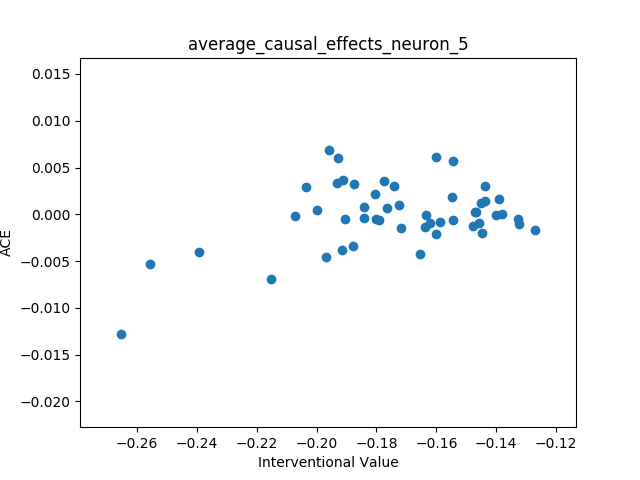
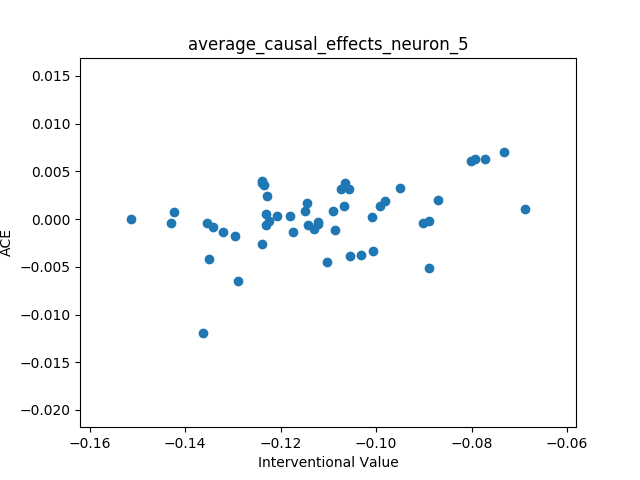
ACE in training

diff --git a/Project/NeuralNet.py b/Project/NeuralNet.py
@@ -3,11 +3,12 @@ import torch.nn as nn
 import numpy  as np
 import matplotlib.pyplot as plt
 import causal
+import copy
 
 class neural_network(object):
     """docstring for neural_network."""
 
-    def __init__(self, learning_rate,net,criterion,opt,epochs,inputs_training,target_training,inputs_test,target_test):
+    def __init__(self, learning_rate,net,criterion,opt,epochs,inputs_training,target_training,inputs_test,target_test,causality_on):
         super(neural_network, self).__init__()
         self.learning_rate = learning_rate
         self.net=net
@@ -18,6 +19,7 @@ class neural_network(object):
         self.target_training=target_training
         self.inputs_test=inputs_test
         self.target_test=target_test
+        self.causality_on=causality_on
 
     def model(self,inputs):
         torch.set_default_dtype(torch.float64)
@@ -61,7 +63,7 @@ class neural_network(object):
         test_loss_training=[]
         for i in range(self.epochs):
 
-            placeholderNet=self.net
+            placeholderNet=copy.deepcopy(self.net)
             placeholderNet.eval()
 
             self.net.train()
@@ -81,6 +83,8 @@ class neural_network(object):
             if i > 0 and i % 10 == 0:
                 print('Epoch %d, loss = %g' % (i, loss))
 
+
+
             #print("weight experiment")
 
             #print(len(self.net[0].weight.grad))
@@ -97,26 +101,24 @@ class neural_network(object):
             #print(len(self.net[2].weight[0]))
             #print(self.net[0].weight.detach().numpy().shape)
 
-            self.selection_weights(placeholderNet)
+            if self.causality_on==1:
+                self.update_weights_bias(placeholderNet)
 
 
 
         return loss_training,test_loss_training
 
 
-    def selection_weights(self,placeholderNet):
+    def update_weights_bias(self,placeholderNet):
         causal_binary = self.ACE_execution()
         #self.net[2].weight
         for indx,binary in enumerate(causal_binary):
             #i=indx*2
             #print(i)
             #print(indx)
-
-            weight_update=np.multiply(self.net[indx*2].weight.detach().numpy(), np.array(binary)[:, np.newaxis])
-            inverted_binary=1-np.array(binary)
-            weighted_keep=np.multiply(placeholderNet[indx*2].weight.detach().numpy(), inverted_binary[:, np.newaxis])
-
-            new_weights=weight_update+weighted_keep
+            new_bias=self.selection_bias(placeholderNet,indx,binary)
+            new_weights=self.selection_weights(placeholderNet,indx,binary)
+            self.overwrite_weights_bias(placeholderNet,indx,new_weights,new_bias)
 
             #print("shape weights new")
             #print(self.net[indx*2].weight.detach().numpy().shape)
@@ -128,8 +130,65 @@ class neural_network(object):
             #print(weighted_keep.shape)
             #print("shape weights final")
             #print(new_weights.shape)
-    #def overwrite_weights(self):
-    #self.net[0].weight=torch.nn.Parameter(torch.from_numpy(np.array(0)))
+
+    def selection_bias(self,placeholderNet,indx,binary):
+
+        bias_update=np.multiply(self.net[indx*2].bias.detach().numpy(), np.array(binary))
+        inverted_binary=1-np.array(binary)
+        bias_keep=np.multiply(placeholderNet[indx*2].bias.detach().numpy(), inverted_binary)
+
+        new_bias=bias_update+bias_keep
+
+        #print("shape bias net")
+        #print(self.net[indx*2].bias.detach().numpy().shape)
+        #print("bias_update")
+        #print(bias_update.shape)
+        #print("new_bias")
+        #print(new_bias.shape)
+        #print("bias net")
+        #print(self.net[indx*2].bias.detach().numpy())
+        #print("binary")
+        #print(binary)
+        #print("bias_update")
+        #print(bias_update)
+
+        #print("bias placeholderNet")
+        #print(placeholderNet[indx*2].bias.detach().numpy())
+        #print("new_bias")
+        #print(new_bias)
+
+        return new_bias
+
+
+    def selection_weights(self,placeholderNet,indx,binary):
+
+        weight_update=np.multiply(self.net[indx*2].weight.detach().numpy(), np.array(binary)[:, np.newaxis])
+        inverted_binary=1-np.array(binary)
+        weighted_keep=np.multiply(placeholderNet[indx*2].weight.detach().numpy(), inverted_binary[:, np.newaxis])
+
+        new_weights=weight_update+weighted_keep
+
+        #print("shape weights net")
+        #print(self.net[indx*2].weight.detach().numpy().shape)
+        #print("weight_update")
+        #print(weight_update.shape)
+        #print("new_weights")
+        #print(new_weights.shape)
+        #print("weight net")
+        #print(self.net[indx*2].weight.detach().numpy())
+        #print("binary")
+        #print(binary)
+        #print("weight_update")
+        #print(weight_update)
+        #print("new_weights")
+        #print(new_weights)
+
+        return new_weights
+
+
+    def overwrite_weights_bias(self,placeholderNet,indx,new_weights,new_bias):
+        self.net[indx*2].weight=torch.nn.Parameter(torch.from_numpy(new_weights))
+        self.net[indx*2].bias=torch.nn.Parameter(torch.from_numpy(new_bias))
 
     def ACE_execution(self):
         causal_test=causal.causality(self,0,0,0,0)

diff --git a/Project/causal.py b/Project/causal.py
@@ -50,7 +50,7 @@ class causality(object):
 
                 #self.final_causality.append(causality_update, dtype=object)
                 #if counter==0:
-                #self.plotting_ACE()
+                self.plotting_ACE()
                 #print("self.new_inputs shape")
                 #print(self.new_inputs.detach().numpy().shape)
                 #print(mean)
@@ -206,17 +206,17 @@ class causality(object):
                 break
             #print(causal_effects.shape)
             #print()
-            plt.scatter(input_samples[i,:],causal_effects)
-            plt.xlabel('Interventional Value')
-            plt.ylabel('ACE')
-            plt.title('average_causal_effects_neuron_'+str(i))
-            plt.savefig('ACEplots/neuron'+str(i)+'.png')
-            plt.close()
+            #plt.scatter(input_samples[i,:],causal_effects)
+            #plt.xlabel('Interventional Value')
+            #plt.ylabel('ACE')
+            #plt.title('average_causal_effects_neuron_'+str(i))
+            #plt.savefig('ACEplots/neuron'+str(i)+'.png')
+            #plt.close()
             plt.hist(causal_effects)
             plt.xlabel('ACE')
             plt.ylabel('Häufigkeit')
             plt.title('histogram_average_causal_effects_neuron_'+str(i))
-            plt.savefig('ACEplots/histogram_neuron'+str(i)+'.png')
+            plt.savefig('ACEplots/histogram_neuron'+str(i)+'_step_'+str(self.counter)+'.png')
             plt.close()
         #print(len(self.input_samples_ACE))
         #print(len(self.input_samples_ACE[0]))

diff --git a/Project/main.py b/Project/main.py
@@ -36,7 +36,8 @@ get_data.splitting_data_noshift()
 #####################Neural Net
 learning_rate=.0005
 epochs=450
-neural=NeuralNet.neural_network(learning_rate,0,0,0,epochs,get_data.inputs_training,get_data.target_training,get_data.inputs_test,get_data.target_test)
+causality_on=0
+neural=NeuralNet.neural_network(learning_rate,0,0,0,epochs,get_data.inputs_training,get_data.target_training,get_data.inputs_test,get_data.target_test,causality_on)
 
 #build neural net, define optimizer and loss
 neural.model(get_data.inputs)
@@ -50,12 +51,13 @@ loss_training,test_loss_training=neural.training()
 #test neural net
 loss_test=neural.testing()
 
-#causal_test=causal.causality(neural,0,0,0,0)
+if causality_on==0:
+    causal_test=causal.causality(neural,0,0,0,0)
 
-#causal_test.slicing_NN(get_data.inputs_training)#for us only training values as we are covering ACE in training not after training
+    causal_test.slicing_NN(get_data.inputs_training)#for us only training values as we are covering ACE in training not after training
 
-#print("final causality")
-#print(causal_test.final_causality)
+    print("final causality")
+    print(causal_test.final_causality)
 
 #print("shapes")
 #for row in causal_test.final_causality:
